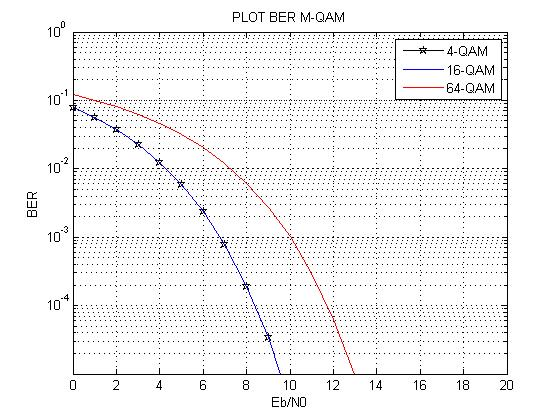
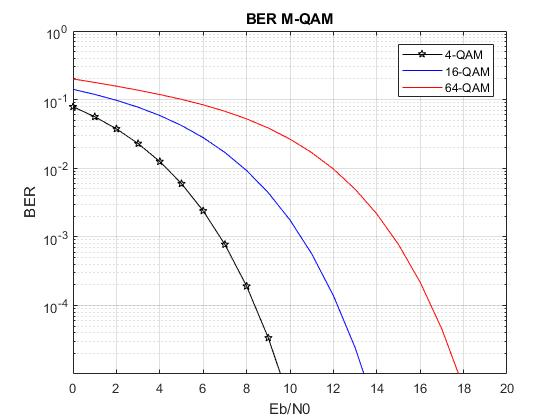
Lab5 | Correções da parte da modulação MQAM; Corrigidas as variáveis do plot; Reescrita análise do gráfico.

Changed region(s): [[0.0607, 0.031, 0.9411, 0.9905], [0.0304, 0.4333, 0.0607, 0.5262]]

diff --git a/Labs/Lab5/mpsk.m b/Labs/Lab5/mpsk.m
@@ -31,9 +31,9 @@ load mqam.mat
 semilogy(ebnoA,berA,'-kp');
 grid on;
 hold on;
-semilogy(ebno1,ber1,'b');
+semilogy(ebno1,berB,'b');
 hold on;
-semilogy(ebno2,ber2,'r');
+semilogy(ebno2,berC,'r');
 hold on;
 axis([0 20 1e-5 1]);
 legend('4-QAM','16-QAM','64-QAM');
